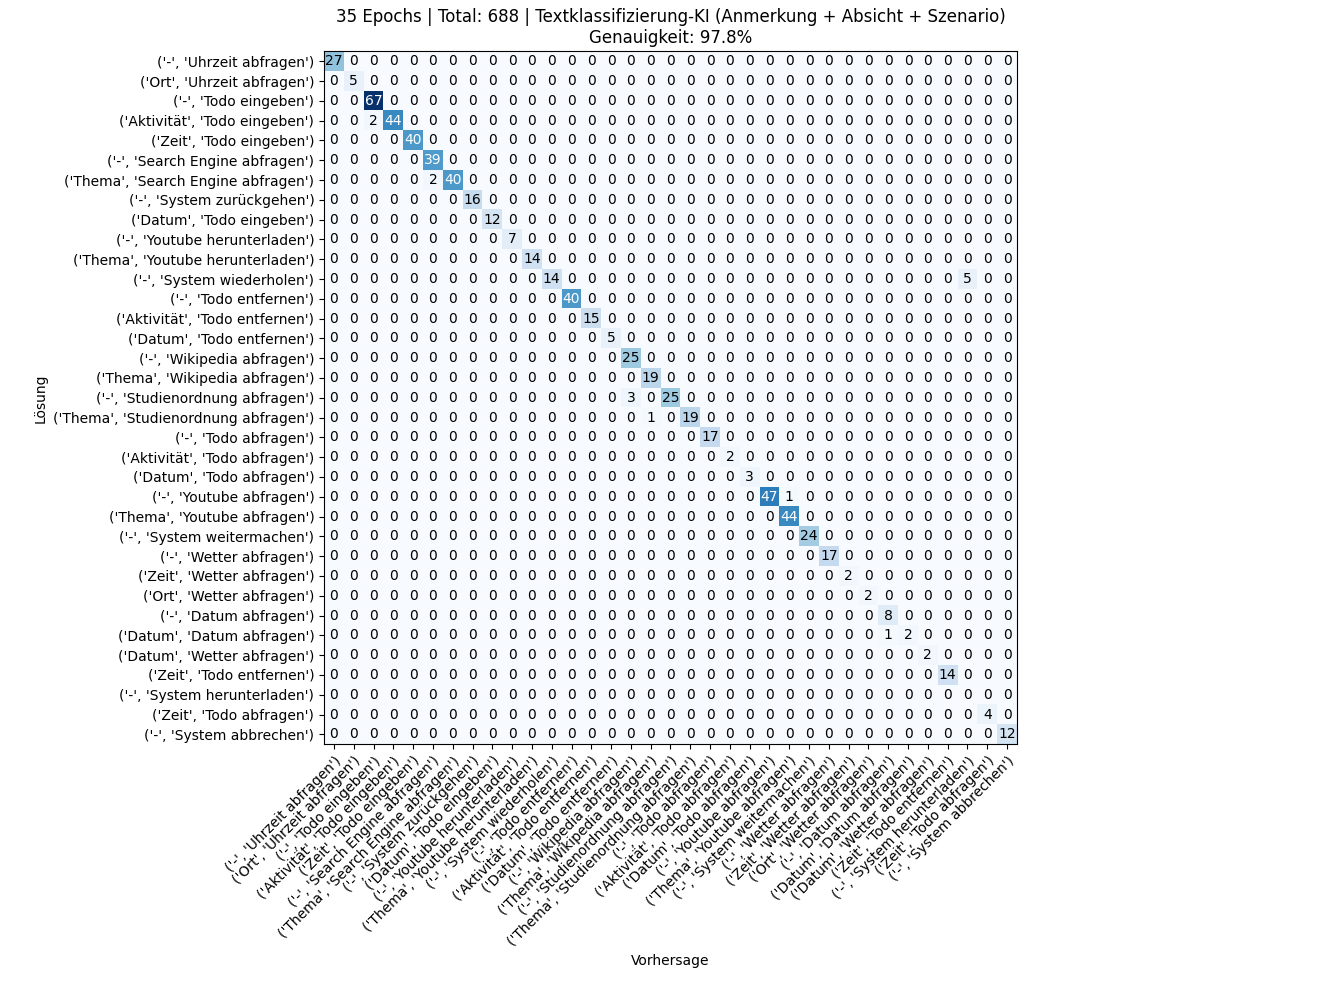
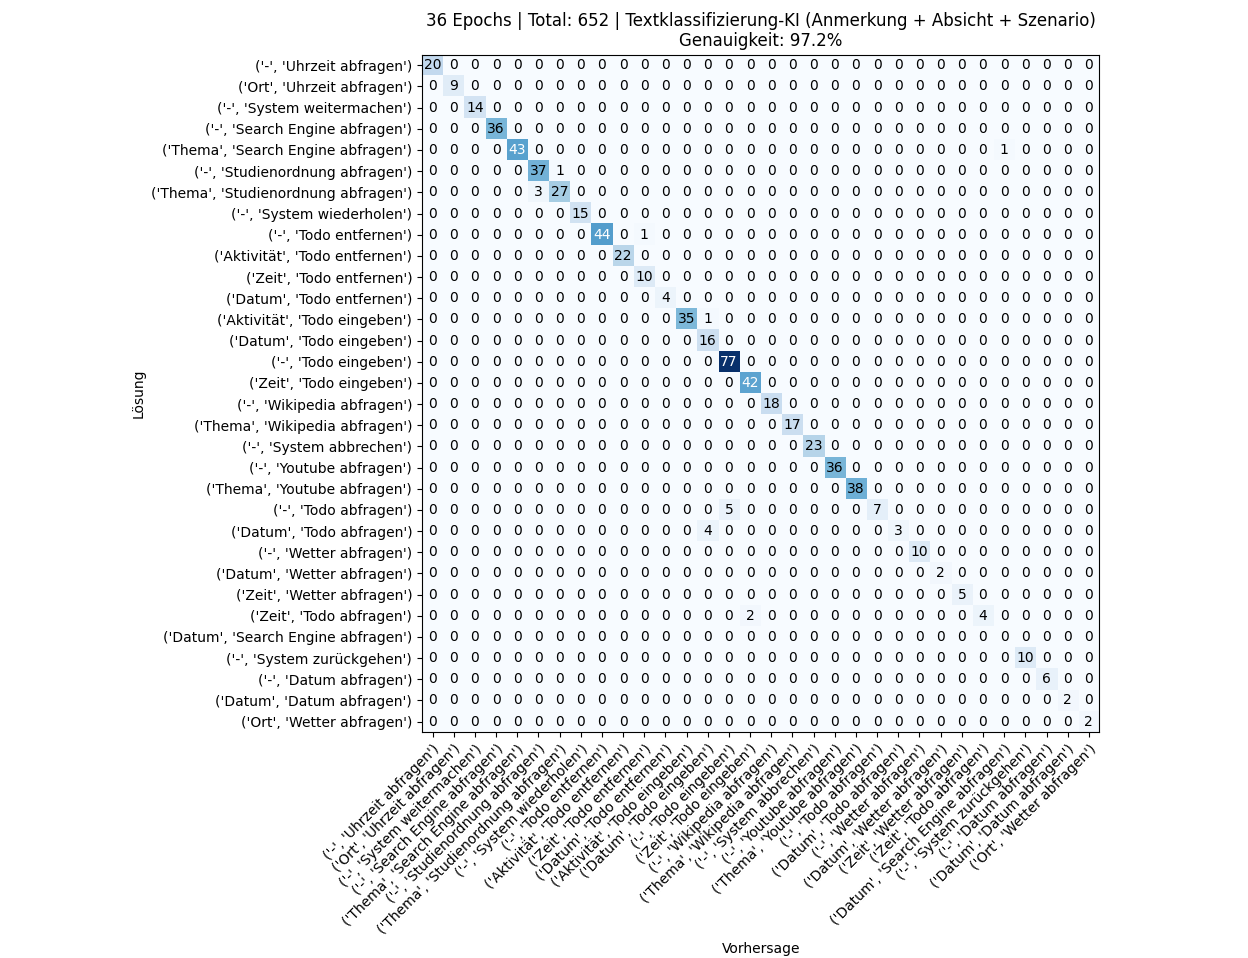
update

diff --git a/client/utils/api.py b/client/utils/api.py
@@ -1,13 +1,13 @@
 import requests
-import argparse
+""" import argparse
 
 parser = argparse.ArgumentParser(description="Shared-Data-Service (Server)")
 parser.add_argument('--ip', type=str, required=True, help='Shared-Data-Service IP')
 parser.add_argument('--port', type=int, required=True, help='Shared-Data-Service Port')
-args = parser.parse_args()
+args = parser.parse_args() """
 #############################################################################
-SHARED_DATA_SERVICE_IP = args.ip
-SHARED_DATA_SERVICE_PORT = args.port
+SHARED_DATA_SERVICE_IP = input("Server-IP: ") #args.ip
+SHARED_DATA_SERVICE_PORT = input("Server-Port: ") #args.port
 #############################################################################
 shared_data = None
 

diff --git a/server/system/textklassifizierung/textklassifizierung_controller/model_textklassifizierung.py b/server/system/textklassifizierung/textklassifizierung_controller/model_textklassifizierung.py
@@ -100,8 +100,7 @@ class ModelTextklassifizierung:
             "zurückgehen",
             "weitermachen",
             "wiederholen",
-            "abbrechen",
-            "herunterladen"
+            "abbrechen"
         ]
 
         for anmerkung in anmerkung_array:

diff --git a/client/README.md b/client/README.md
@@ -32,24 +32,34 @@
 1. **Aktivierungswort mit eigener Stimme aufnehmen und trainieren:**
    1. Öffne `setting.py`.
       ```shell
-      python setting.py --ip [Server-Shared-Data-Service-IP] --port [Server-Shared-Data-Service-IP]
+      python setting.py --ip [Server-Shared-Data-Service-IP] --port [Server-Shared-Data-Service-PORT]
       ```
    2. Suche das Menü „Aktivierungswort aufnehmen“.
    3. Sprich die folgenden Beispiele nach:
       - **Aktivierungswort:**
          - Hey [Name]
          - [Name]
-         - … (Wiederhole 10 Mal)
+         - … (Wiederhole 20-30 Mal)
       - **Kein Aktivierungswort:**
          - [Zufällige Rede]
          - [Zufällige Geräusche]
-         - … (Wiederhole 10 Mal)
+         - … (Wiederhole 20-30 Mal)
    4. Wenn du fertig bist, trainiere die Datensätze.
+
+   **Hinweis:**
+   - **HTW DRESDEN SERVER** 
+      - Server-Shared-Data-Service-IP: `141.56.137.185`
+      - Server-Shared-Data-Service-Port: `8000`
 
 2. **Starte das Engine-Skript:**
    ```shell
-   python engine.py --ip [Server-Shared-Data-Service-IP] --port [Server-Shared-Data-Service-IP]
+   python engine.py --ip [Server-Shared-Data-Service-IP] --port [Server-Shared-Data-Service-PORT]
    ```
+
+   **Hinweis:**
+   - **HTW DRESDEN SERVER** 
+      - Server-Shared-Data-Service-IP: `141.56.137.185`
+      - Server-Shared-Data-Service-Port: `8000`
 
 ## Assistenten aufrufen
 - Du musst zunächst den Assistenten aktivieren, indem du das Aktivierungswort verwendest.

diff --git a/README.md b/README.md
@@ -129,10 +129,6 @@ Um mehr über die Architektur des Projekts zu erfahren, siehe die [Architektur-D
    - Finde ein Video über gesunde Ernährung
    - Such nach einem Video über Tipps für bessere Fotografie
    - Spiel ein Video über AI ab
-- **Youtube herunterladen (als Audio)**
-   - Lade das neueste Video von PewDiePie herunter
-   - Lade ein lustiges Video herunter
-   - Lade dieses Video herunter
 
 ## Suchintent Search Engine
 - Such nach einem Hotel in Berlin
